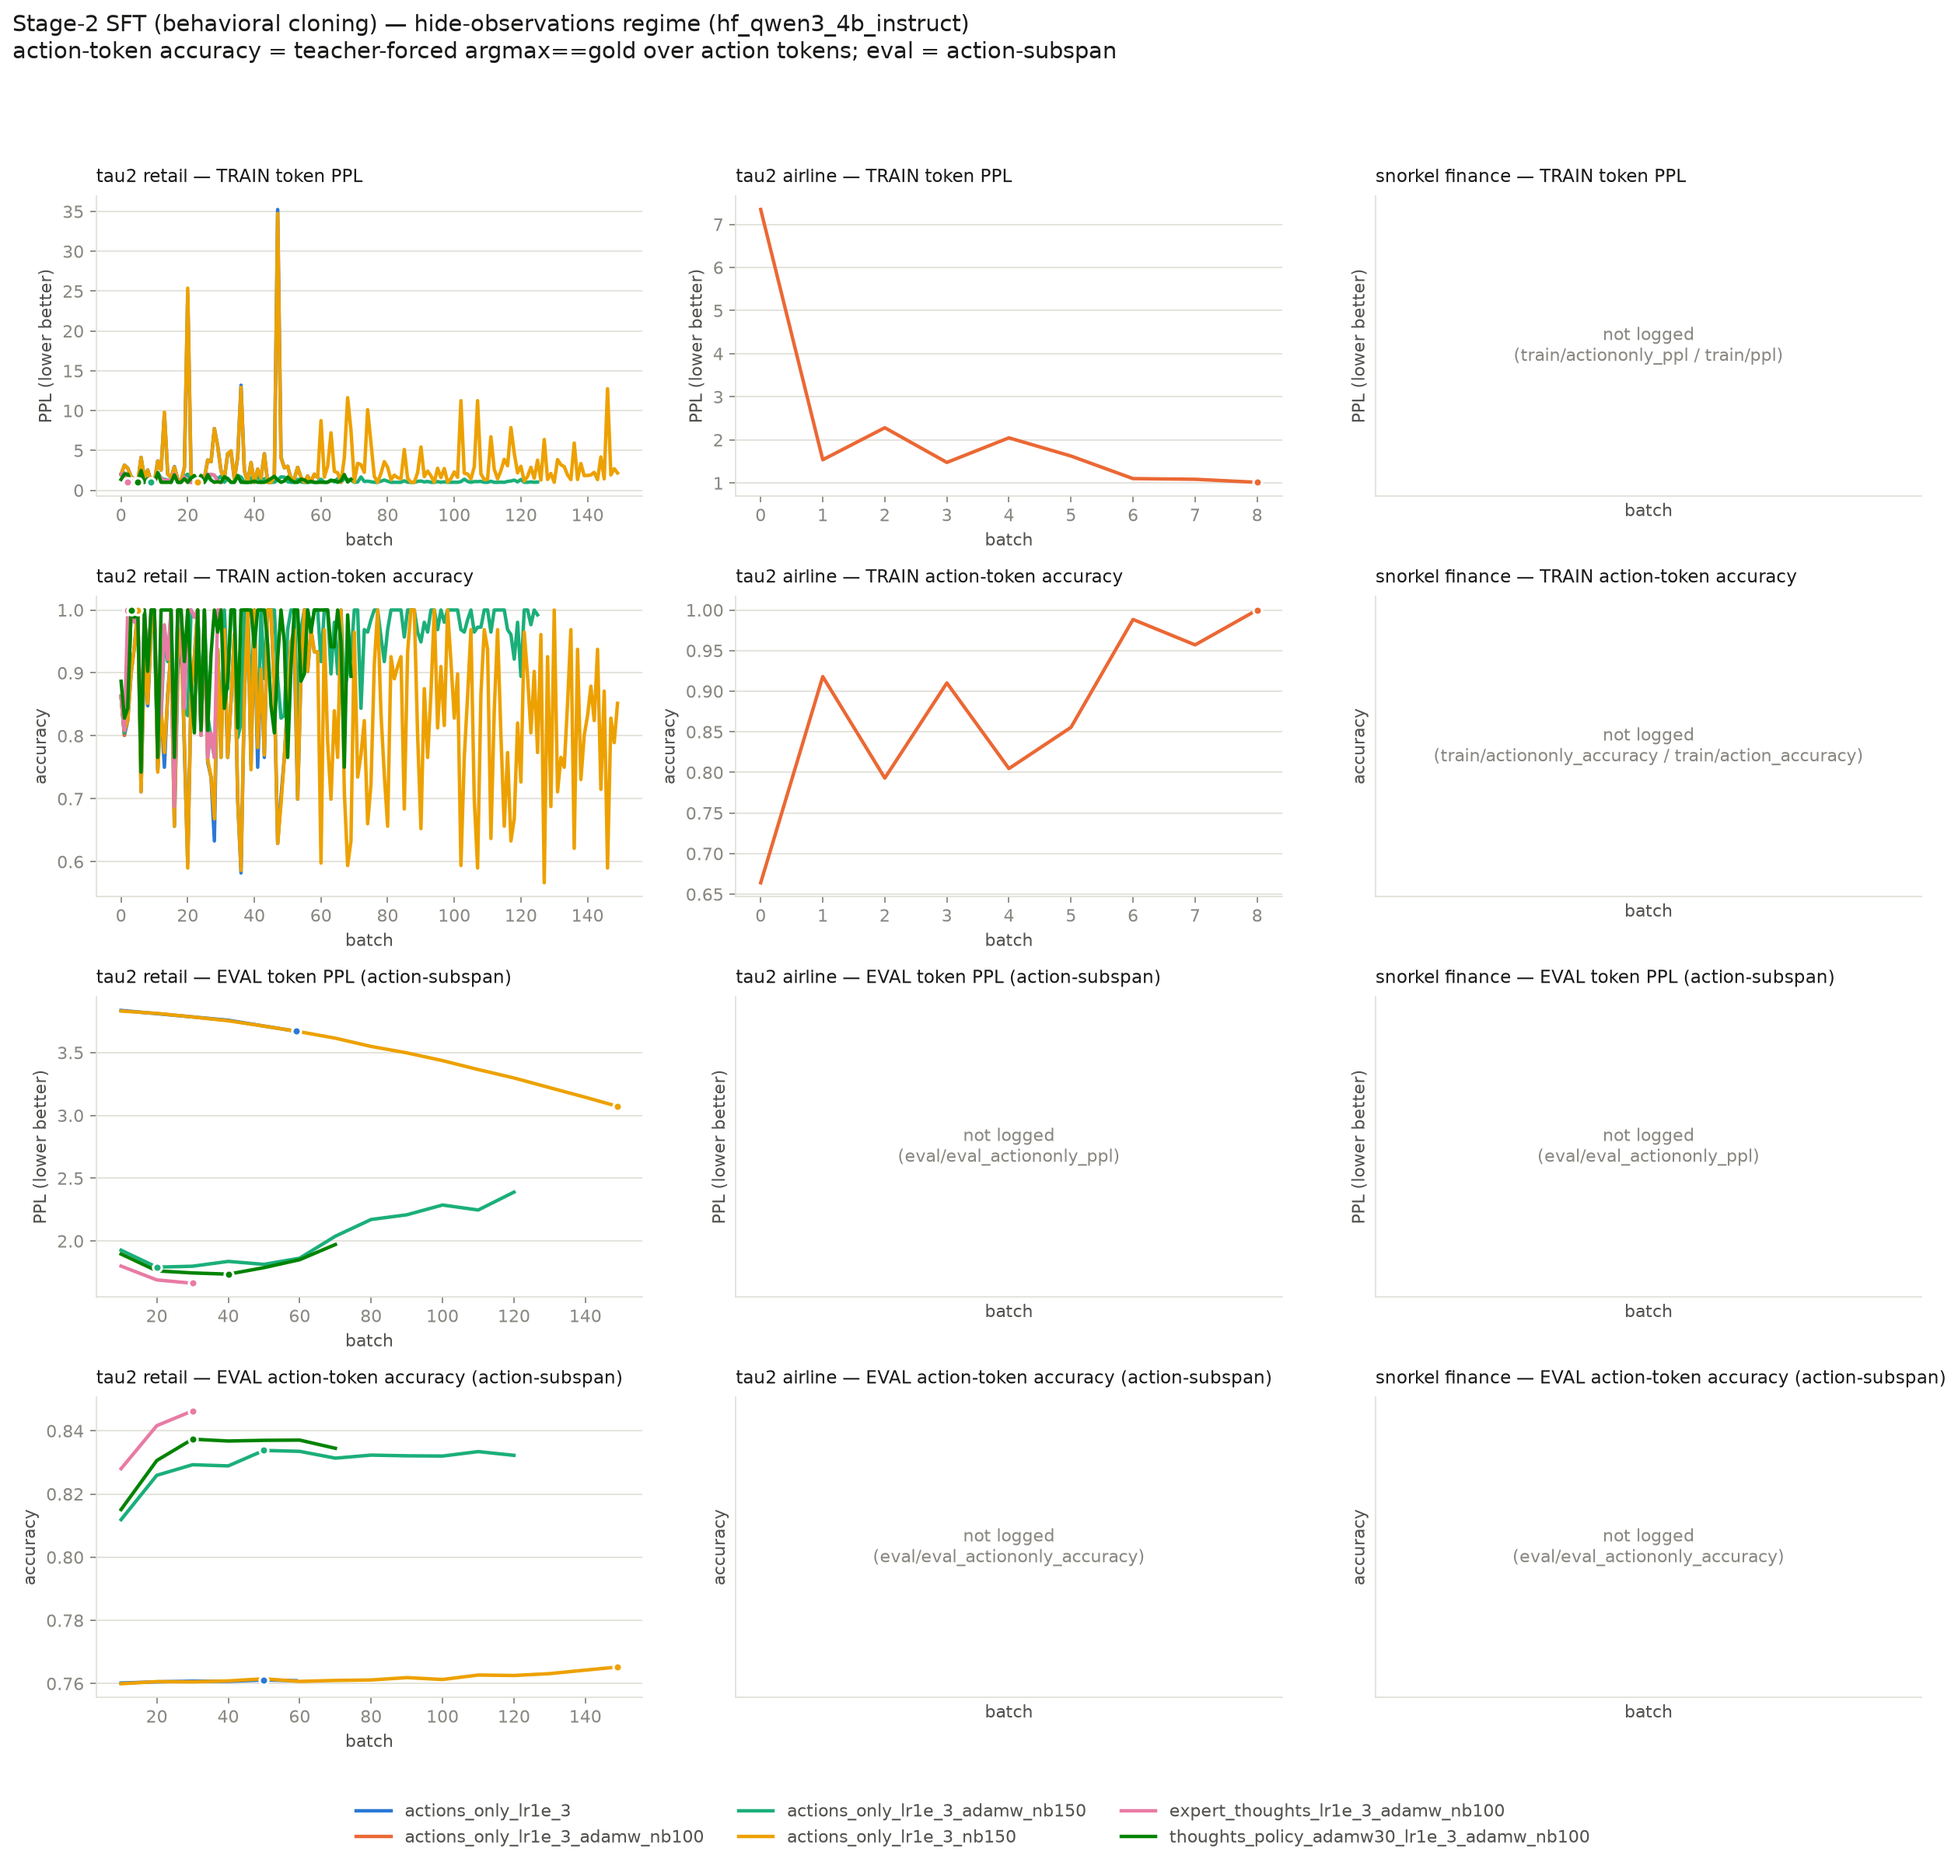
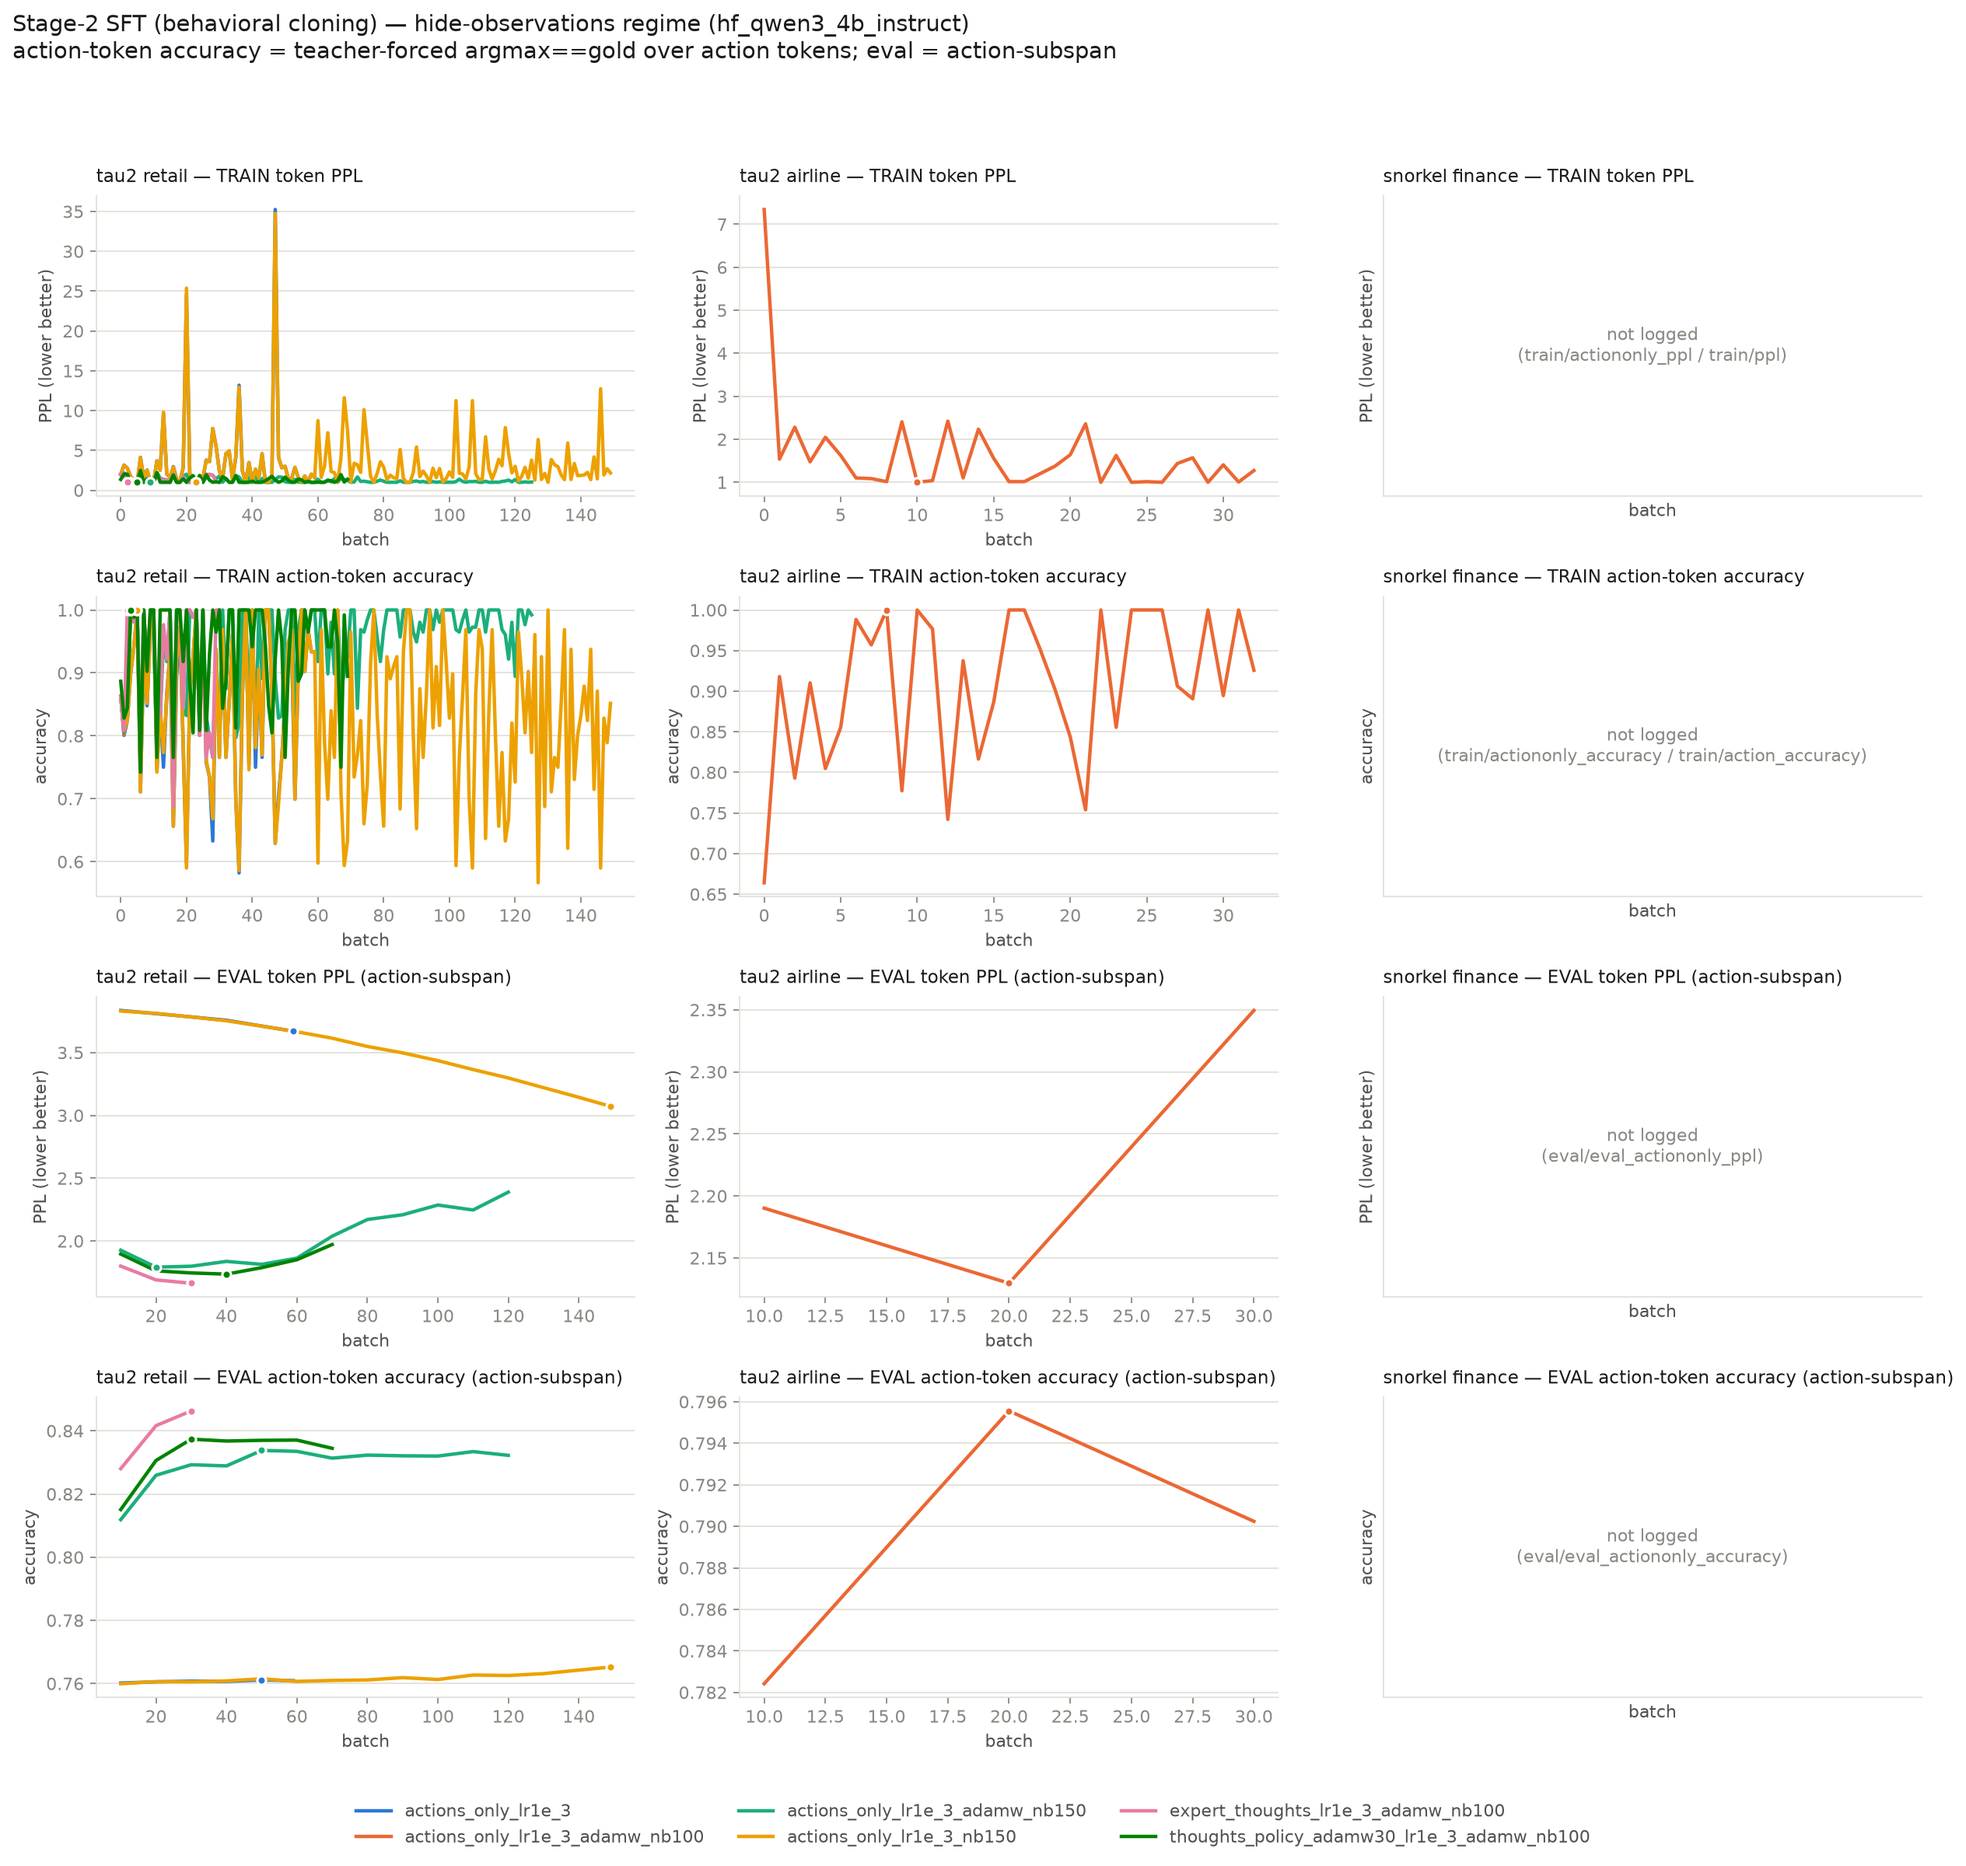
auto: SFT LR sweep results snapshot

diff --git a/notes/cc-3.0-airline_sft_results.md b/notes/cc-3.0-airline_sft_results.md
@@ -19,7 +19,7 @@ for wordiness rather than for mispredicting the action, which inverts the rankin
 | thoughts_policy | full | 3.3257 | 0.7642 | 59 | 3.9249 | 0.7258 | 59 | 1.1189 |
 | thoughts_base | hide | 3.5779 | 0.7503 | 40 | 4.0317 | 0.7163 | 40 | 0.6611 |
 | thoughts_base | full | 3.3788 | 0.7626 | 59 | 3.8010 | 0.7300 | 30 | 1.0195 |
-| actions_only_lr1e_3_adamw_nb100 | hide | — | — | — | — | — | — | 0.0120 |
+| actions_only_lr1e_3_adamw_nb100 | hide | 2.1296 | 0.7956 | 20 | 2.1296 | 0.7956 | 20 | 0.2391 |
 | actions_only_lr3e_3_nb150 | hide | 2.4506 | 0.7629 | 149 | 2.4506 | 0.7629 | 149 | 0.9820 |
 | expert_thoughts_all_lr3e_3_nb150 | hide | 2.4185 | 0.7530 | 149 | 4.0115 | 0.6414 | 149 | 1.0439 |
 | expert_thoughts_all_lr3e_3_nb150_fixeval | hide | 2.3673 | 0.7715 | 149 | 3.6306 | 0.6702 | 149 | 1.0437 |
@@ -47,7 +47,7 @@ that saved step:
 | thoughts_policy | full | 3.3257 | 0.7642 |
 | thoughts_base | hide | 3.5779 | 0.7503 |
 | thoughts_base | full | 3.3817 | 0.7628 |
-| actions_only_lr1e_3_adamw_nb100 | hide | — | — |
+| actions_only_lr1e_3_adamw_nb100 | hide | 2.1296 | 0.7956 |
 | actions_only_lr3e_3_nb150 | hide | 2.4506 | 0.7629 |
 | expert_thoughts_all_lr3e_3_nb150 | hide | 2.4185 | 0.7530 |
 | expert_thoughts_all_lr3e_3_nb150_fixeval | hide | 2.3673 | 0.7715 |

diff --git a/notes/cc-5.0-sft-lr-investigation.md b/notes/cc-5.0-sft-lr-investigation.md
@@ -369,11 +369,11 @@ retail/actions_only_lr1e_3_nb150                     hide  149     3.8307 ->   3
 retail/expert_thoughts_lr1e_3_adamw_nb100            hide   60     1.8014 ->   1.7078   5.20%  0.8487        1.0000  <running>
 retail/expert_thoughts_lr1e_3_adamw_nb100            hide   30     1.7999 ->   1.6634   7.58%  0.8463        1.0000  <running>
 retail/thoughts_policy_adamw30_lr1e_3_adamw_nb100    hide   70     1.8959 ->   1.9718  -4.00%  0.8345        1.3828  <running>
-airline/actions_only_lr1e_3_adamw_nb100              hide    8         (no evals yet)
+airline/actions_only_lr1e_3_adamw_nb100              hide   32     2.1901 ->   2.3495  -7.27%  0.7902        1.2734  <running>
 
-2/6 arms complete   (Δ% = held-out action-subspan PPL improvement, higher is better)
+2/7 arms complete   (Δ% = held-out action-subspan PPL improvement, higher is better)
 ```
-_last refreshed: 2026-08-30 05:00_
+_last refreshed: 2026-08-30 05:20_
 <!--/RESULTS-->
 
 ## Infrastructure
